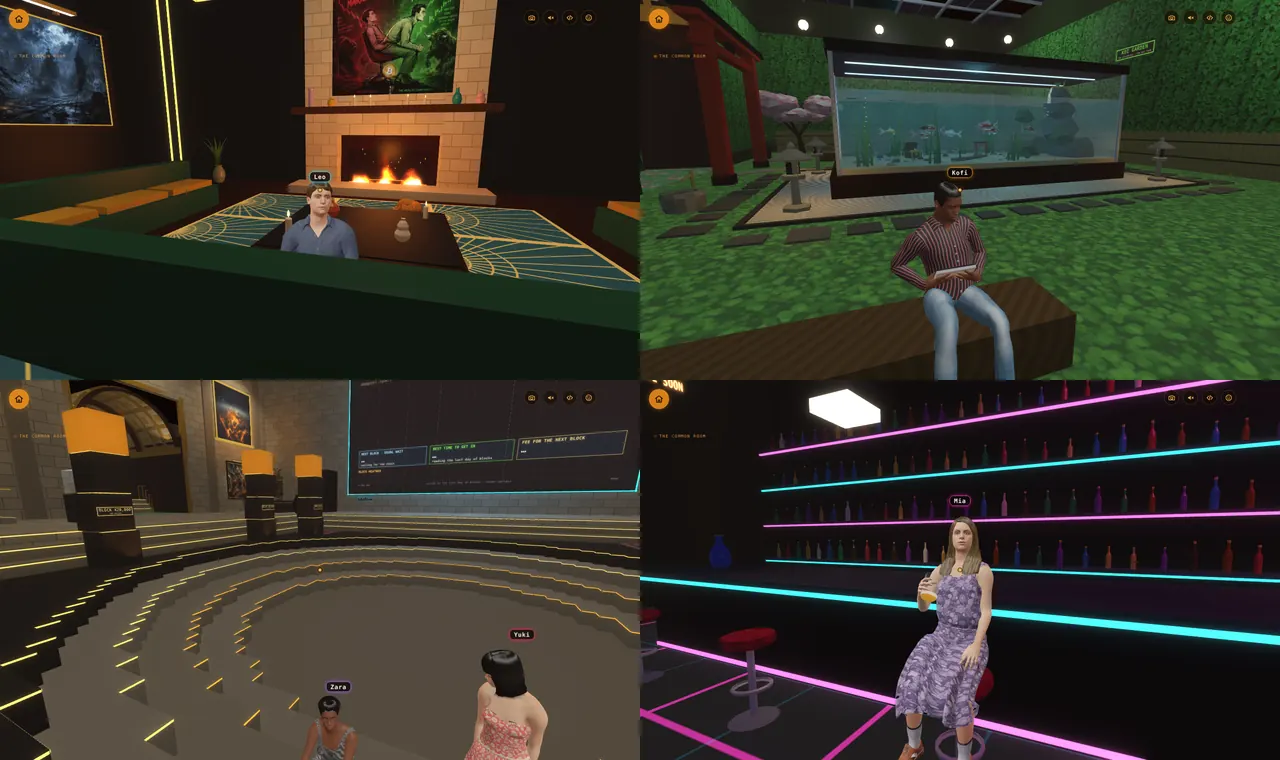
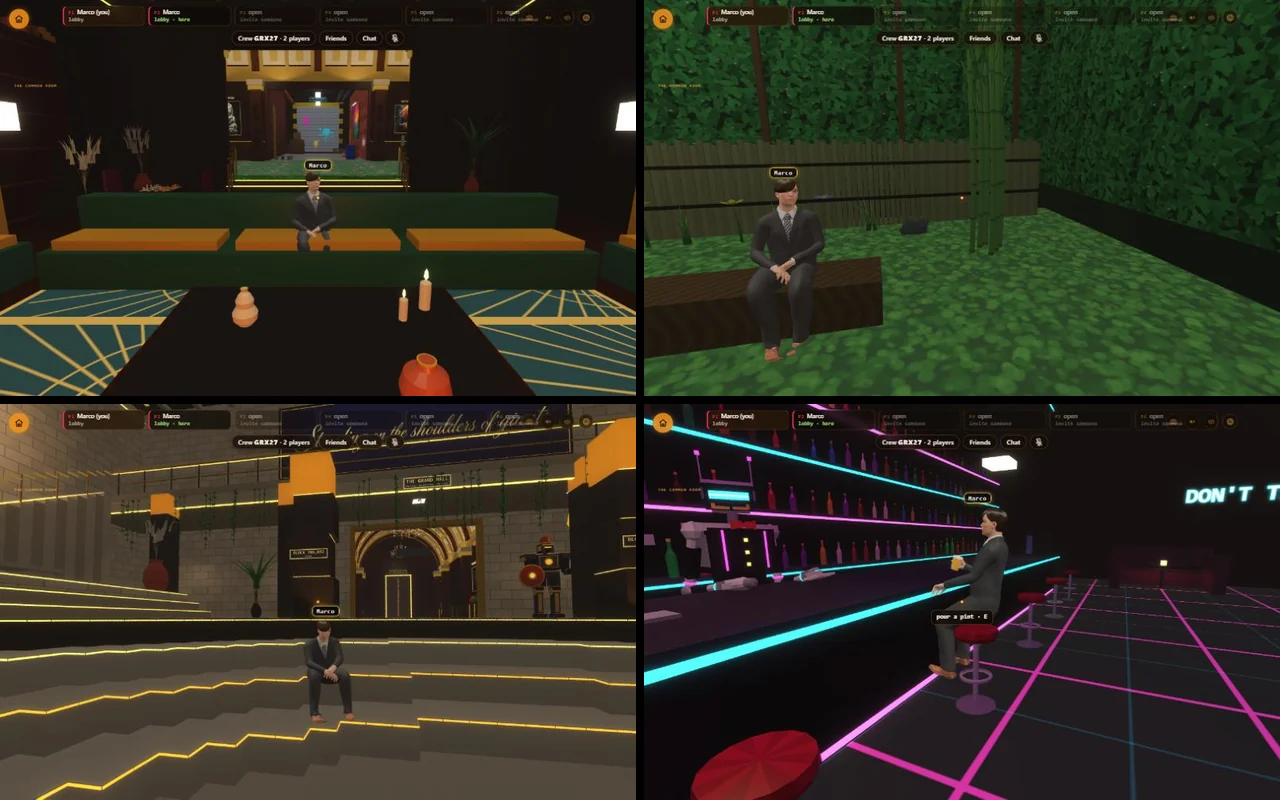
Blog: the Bitcoin side of Block Cube and Block Paint, as a how-to
The blog now covers the Bitcoin side of Block Cube and Block Paint as a how-to: the next block, fees and ordinals views, walking into a block and holding parcels, the tablet search, the common room's live screens, and Block Paint's block screens. Every new picture was taken on the live portal with real blocks. The seats and Your painter pictures, which showed test block numbers, are replaced with pictures from the live portal.

Claude-Session: https://claude.ai/code/session_01JZqZ4BYJwBARhXufSmBGTD

diff --git a/block-cube-people-blog.html b/block-cube-people-blog.html
@@ -3,7 +3,7 @@
 <head>
 <meta charset="utf-8">
 <meta name="viewport" content="width=device-width, initial-scale=1">
-<title>Real People in Block Cube and Block Paint</title>
+<title>Block Cube and Block Paint: the Bitcoin side and the real people</title>
 <meta name="description" content="Ten lifelike people, 350 things to wear, 30 emotes and a way of moving that never plays the same twice: what the people update for Block Cube and Block Paint does, how it works, and how to use it.">
 <style>
   :root { --bg: #0d0906; --ink: #efe6d6; --mute: #b3a48d; --line: #3a2a1c; --gold: #f7931a; --card: #17100a; --bar: #080503; }
@@ -63,14 +63,14 @@
 <div class="topbar"><div><a href="index.html">Back to the Ordinal Portal</a><a href="block-cube-together.html">Play Block Cube</a><a href="block-paint.html">Open Block Paint</a></div></div>
 <main>
   <div class="kick">Ordinal Portal · build notes</div>
-  <h1>Real People in Block Cube and Block Paint</h1>
+  <h1>Block Cube and Block Paint: the Bitcoin side and the real people</h1>
   <p class="lede">Ten lifelike people, 350 things to wear, 30 emotes, and a way of standing, looking and moving that never plays the same twice. This is what the update does, how it works, and how to use it.</p>
-  <nav class="toc"><a href="#what">What it is</a><a href="#start">Getting started</a><a href="#ten">The ten</a><a href="#wardrobe">Wardrobe</a><a href="#emotes">Emotes</a><a href="#alive">How they move</a><a href="#places">Where you meet them</a><a href="#controls">Controls</a><a href="#how">How it works</a><a href="#resources">Resources</a><a href="#next">Limits</a><a href="#log">Update log</a></nav>
+  <nav class="toc"><a href="#what">What it is</a><a href="#start">Getting started</a><a href="#bitcoin">Bitcoin side</a><a href="#ten">The ten</a><a href="#wardrobe">Wardrobe</a><a href="#emotes">Emotes</a><a href="#alive">How they move</a><a href="#places">Where you meet them</a><a href="#controls">Controls</a><a href="#how">How it works</a><a href="#resources">Resources</a><a href="#next">Limits</a><a href="#log">Update log</a></nav>
 
   <figure><img src="block-cube-people-blog/lineup.webp" alt="Ten people standing in a row, each in a different outfit from the wardrobe" width="1400" height="472"><figcaption>The ten, each in an outfit picked from the wardrobe: a top, something below, shoes, a hat and gloves.</figcaption></figure>
 
   <h2 id="what">What it is</h2>
-  <p>Block Cube is a 3D Bitcoin block explorer you walk through, with a common room where a crew can meet. Block Paint is its spray-paint city. Until now everyone in both was a blocky figure. This update replaces them with real-looking people: the same ten in both games, wearing the same clothes, doing the same moves.</p>
+  <p>Block Cube is a 3D Bitcoin block explorer you walk through, with a common room where a crew can meet. Block Paint is its spray-paint city. Both follow the Bitcoin blockchain live, and the part called <a href="#bitcoin">The Bitcoin side</a> shows how to use that, step by step. Until now everyone in both was a blocky figure. This update replaces them with real-looking people: the same ten in both games, wearing the same clothes, doing the same moves.</p>
   <ul>
     <li><strong>Ten people</strong>, five men and five women, with five skin tones to choose from.</li>
     <li><strong>A wardrobe of 350 pieces</strong> in seven sections, each with colours and patterns.</li>
@@ -96,6 +96,87 @@
     <li>Pick one of the ten, colours, a skin tone and your wardrobe. Press <kbd>V</kbd> (or pinch on a phone) to see yourself.</li>
   </ol>
   <p>Your choice is remembered on your device. Other players see it.</p>
+
+  <h2 id="bitcoin">The Bitcoin side: how to use it</h2>
+  <p>Block Cube is a Bitcoin block explorer you can walk through. What you see comes from the Bitcoin blockchain, live: blocks, fees and the next block from mempool.space, ordinal tags from ordpool.space, and inscriptions from ordinals.com. Every picture in this part was taken on the live portal on 12 November 2026, with real blocks.</p>
+
+  <h3>1. The newest block, and the one being made</h3>
+  <p>Open Block Cube and you start on the <strong>next block</strong>: the block being put together right now from transactions waiting to be mined.</p>
+  <ul>
+    <li><strong>The tiles along the top</strong> are the chain. On the left are the blocks still waiting (+3, +2, +1 and NEXT). On the right are blocks already mined, newest first. Each tile shows its fees, size and number of transactions. Click a tile to open that block.</li>
+    <li><strong>LIVE</strong> (at the bottom) takes you back to the next block. <kbd>&lsaquo;</kbd> and <kbd>&rsaquo;</kbd> beside it step one block back or forward.</li>
+    <li><strong>Fee weather</strong> is the band under the tiles: the middle fee of each of the last 144 blocks (about a day). 1D, 1W, 1M and 3M change how far back it goes.</li>
+    <li><strong>FEED</strong> (top right) shows or hides the live feed: blocks as they are found and who found them, big moves, and transactions joining the next block.</li>
+  </ul>
+  <figure><img src="block-cube-people-blog/chain-next.webp" alt="Block Cube opening on the next block, 975,527, with the row of block tiles along the top, the fee weather band, the parcel types and the live feed" width="800" height="449" loading="lazy"><figcaption>Where you start: the next block (975,527) being put together, the chain along the top, the live feed on the right.</figcaption></figure>
+
+  <h3>2. Read a block: fees or ordinals</h3>
+  <p>Every little box in the cube is one transaction.</p>
+  <ul>
+    <li>The button at the bottom names the view you are in. <strong>FEES</strong> colours each box by the fee it paid; the colour key is under the block number. Click it to switch to <strong>ORDINALS</strong>, which shows what the block carries: inscriptions, BRC-20 and other tokens, runes and more.</li>
+    <li>The <strong>eye</strong> button is X-ray: it lets you see inside the cube.</li>
+    <li><strong>Parcel types</strong> (bottom left): hover over a type to light it up, click it to keep it lit. The tabs switch between inscriptions, tokens and transactions.</li>
+    <li><strong>Click a box</strong> to open its card: its place in the block, fee rate, fee, size, the total it sends, any ordinals and its ID. With a type kept, <kbd>&lsaquo;</kbd> and <kbd>&rsaquo;</kbd> on the card step through every parcel of that type.</li>
+  </ul>
+  <figure><img src="block-cube-people-blog/chain-fees.webp" alt="Block 975,526 in the fees view, each box coloured by its fee, with the colour key under the block number" width="800" height="449" loading="lazy"><figcaption>Block 975,526 in the FEES view.</figcaption></figure>
+  <figure><img src="block-cube-people-blog/chain-ordinals.webp" alt="The same block in the ordinals view with Inscriptions kept, and the card for inscription 1 of 14, a BRC-20 transfer" width="800" height="449" loading="lazy"><figcaption>The same block in the ORDINALS view, with Inscriptions kept: the card shows the first of its 14 inscriptions, a BRC-20 transfer.</figcaption></figure>
+
+  <h3>3. Walk into the block</h3>
+  <p>Press the round button at the top left (<em>walk into the block</em>). Inside, the block is a hall of shelves. Each transaction is a parcel on a shelf, sorted by kind, with a sign giving the count. Pictures show on their parcels and tokens show their names. The door at the far end leads to the next block.</p>
+  <ul>
+    <li><strong>Computer:</strong> click to look around, <kbd>W</kbd> <kbd>A</kbd> <kbd>S</kbd> <kbd>D</kbd> to walk, <kbd>Shift</kbd> to run, click a parcel to hold it, <kbd>Esc</kbd> to let go.</li>
+    <li><strong>Phone:</strong> pad to walk, drag to look, tap a parcel to hold it.</li>
+  </ul>
+  <figure><img src="block-cube-people-blog/chain-inside.webp" alt="Inside block 975,526: a long hall of lit shelves full of parcels, with the door to the next block at the far end" width="800" height="500" loading="lazy"><figcaption>Inside block 975,526.</figcaption></figure>
+  <figure><img src="block-cube-people-blog/chain-shelves.webp" alt="Token shelves inside the block: BRC-20 with 12 parcels named rats, sats, ordi and others, CRC-20 LEAF with 3, Counterparty with 4, Alkanes with 4" width="800" height="500" loading="lazy"><figcaption>Token shelves: BRC-20 (12), CRC-20 · LEAF (3), Counterparty (4), Alkanes (4).</figcaption></figure>
+  <p>When you hold a parcel, its card shows what is inside it: the picture, the text, or a token's details, with the transaction under it. Then you can:</p>
+  <ul>
+    <li><strong>VIEW BIG</strong> (<kbd>V</kbd>): see it large on a big tablet, with FULL SCREEN and OPEN buttons. CLOSE goes back.</li>
+    <li><strong>SHOW IN COMMON ROOM</strong> (<kbd>C</kbd>): put it on show in the common room (see part 5).</li>
+    <li><strong>FOLLOW IT BACK</strong> (<kbd>F</kbd>): a gold line leads from the parcel to where the inscription was made and each place it has moved. The bar at the top names each step (MADE, a move, or PAID TO A MINER); <kbd>&#9664;</kbd> and <kbd>&#9654;</kbd> step along it and &times; ends it.</li>
+  </ul>
+  <figure><img src="block-cube-people-blog/chain-hold.webp" alt="Holding inscription 1,000: the card shows its picture, a striped ring on a pink and purple background, with View big, Show in common room and Follow it back buttons" width="800" height="500" loading="lazy"><figcaption>Holding inscription #1,000, a picture, in block 774,697.</figcaption></figure>
+  <figure><img src="block-cube-people-blog/chain-follow.webp" alt="Follow it back on a BRC-20 parcel: a gold line comes down to the parcel marked made here, and the bar at the top reads number 127,871,016, made, block 975,526" width="800" height="500" loading="lazy"><figcaption>Follow it back: inscription #127,871,016 was made in this block, so the line ends here.</figcaption></figure>
+
+  <h3>4. Search and fast travel: the tablet</h3>
+  <p>Inside, press <kbd>T</kbd> (on a phone, tap the tablet button) to open the tablet.</p>
+  <ul>
+    <li><strong>Fast travel:</strong> COMMON ROOM, NEWEST BLOCK or GENESIS BLOCK.</li>
+    <li><strong>Search:</strong> type, press FIND, then GO. Its help line lists what it can find: a block (840000 or 840000.bitmap), a parcel (12.840000.bitmap), an inscription (#1000 or its ID), a transaction ID, an address, or a name (satoshi.sats).</li>
+    <li>After GO, an arrow shows the way, with the distance. CLEAR ARROW takes it away.</li>
+  </ul>
+  <figure><img src="block-cube-people-blog/chain-tablet.webp" alt="The tablet open inside a block, with Common room, Newest block and Genesis block buttons, the search box reading #1000, and the result inscription 1,000 with a Go button" width="800" height="500" loading="lazy"><figcaption>Searching for inscription #1000.</figcaption></figure>
+  <figure><img src="block-cube-people-blog/chain-arrow.webp" alt="The Images shelf in block 774,697 with six picture parcels, and an orange arrow labelled number 1,000, 1.8 metres, pointing at one of them" width="800" height="500" loading="lazy"><figcaption>GO took me to block 774,697. The arrow points to #1,000 on the Images shelf, 1.8 m away.</figcaption></figure>
+
+  <h3>5. The common room's live screens</h3>
+  <p><strong>The big screen in the Forum</strong> (the sunken floor in the Grand Hall) shows the chain as it happens. Walk up and click it, or press <kbd>E</kbd>, to see it up close; FULL SCREEN fills your screen with it. It shows:</p>
+  <ul>
+    <li><strong>Waiting to be mined:</strong> the next three blocks as they stand, with their fees.</li>
+    <li><strong>Just mined:</strong> the last four blocks, how long ago, and which pool found them.</li>
+    <li><strong>Next halving:</strong> the block it happens at and how many blocks to go.</li>
+    <li><strong>Next block · usual wait:</strong> the average time between blocks over the last day, and the time 9 in 10 blocks came within.</li>
+    <li><strong>Best time to get in:</strong> the lowest fee getting into the next block now, set against the last 144 blocks. NOW IS CHEAP, FAIR or DEAR says how it compares.</li>
+    <li><strong>Low fee · scored on today:</strong> fees to pay, each tested on the last day's blocks: <em>cheap</em> gets in within about 3 hours, <em>patient</em> within about 1 hour, and <em>next block</em> in the next one. The numbers say how often each would have worked.</li>
+    <li><strong>Block weather:</strong> the fee for the next block over the last day, and whether it is busier or quieter than usual now.</li>
+  </ul>
+  <figure><img src="block-cube-people-blog/chain-screen.webp" alt="The Forum's big screen up close: Live from the blockchain, block 975,526, next halving at block 1,050,000 with 74,474 blocks to go, the next three blocks, the last four blocks, usual wait about 11.1 minutes, best time to get in: now is dear, low fees scored on today, and the block weather chart" width="800" height="500" loading="lazy"><figcaption>The big screen up close.</figcaption></figure>
+  <p><strong>On show:</strong> a parcel you put on show floats large over the middle of the Forum. One is on show at a time. In a crew everyone sees the same one, and it is kept on your device for next time. The button at the top takes you back to the block it came from.</p>
+  <figure><img src="block-cube-people-blog/chain-show.webp" alt="Inscription 1,000 on show as a large floating box over the Forum, under a ring of circling blocks, with the big screen below" width="800" height="500" loading="lazy"><figcaption>Inscription #1,000 on show in the Forum.</figcaption></figure>
+  <p><strong>The rare sats board</strong> in the Entrance Arcade lists kinds of rare sats, how many of each exist, and a price for one sat. The prices come from ordiscan.com, with the day they were read at the bottom. It moves on to the next kinds every few seconds.</p>
+  <figure><img src="block-cube-people-blog/chain-rare.webp" alt="The rare sats board in the Entrance Arcade: block 975,526, with black uncommon, black rare, black epic, palindrome, alpha and omega sats, how many exist and the price for one sat" width="800" height="500" loading="lazy"><figcaption>The rare sats board.</figcaption></figure>
+
+  <h3>6. Block Paint's Bitcoin side</h3>
+  <p>Block Paint City follows the chain too. On the portal it reads the newest block from mempool.space, with backup sites if that is down.</p>
+  <ul>
+    <li><strong>Block screens</strong> on the rooftop and in the subway show BITCOIN BLOCK, the newest block's number, and a GMT clock that runs on from that block's time stamp.</li>
+    <li><strong>The subway departures board</strong> lists the Downtown &amp; Sats Bay train, the Block train ("with the next block") and the last block.</li>
+    <li><strong>When a new block is found</strong> the place you are in reacts: in the subway the next train in is an orange block train, in the train yard an orange train runs through, and on the rooftop fireworks go up.</li>
+    <li><strong>The skate park scoreboard</strong> counts down the blocks to the next halving.</li>
+    <li><strong>Paint apps:</strong> the Paint menu has "Look for paint apps". On the portal it says paint apps are found once the game is inscribed. Until then, "Try a paint app file…" loads one from your device.</li>
+  </ul>
+  <figure><img src="block-cube-people-blog/paint-board.webp" alt="The big screen on the Block Paint rooftop at night: Bitcoin block 975,526, with a GMT time under it and a glowing Bitcoin sign above" width="800" height="500" loading="lazy"><figcaption>The rooftop's block screen.</figcaption></figure>
+  <figure><img src="block-cube-people-blog/paint-depart.webp" alt="The subway platform with the departures board: Downtown and Sats Bay, Block train with the next block, Last block 975,526, and a block screen on the far wall" width="800" height="500" loading="lazy"><figcaption>The subway departures board, and a block screen across the tracks.</figcaption></figure>
+  <figure><img src="block-cube-people-blog/paint-halving.webp" alt="The skate park scoreboard: Next halving, 74,474 blocks to go, block 975,526" width="800" height="500" loading="lazy"><figcaption>The skate park's halving countdown.</figcaption></figure>
 
   <h2 id="ten">The ten</h2>
   <p>Each person has a name, a body, and a way of carrying themselves. The ways are small, but they are why a room of them does not look like copies of one figure.</p>
@@ -141,7 +222,7 @@
   <details class="sec"><summary>Shoes <span>all fifty</span></summary><figure><a href="block-cube-people-blog/all-shoes.webp"><img src="block-cube-people-blog/all-shoes.webp" alt="Fifty pairs of shoes seen close up, ten to a row" width="720" height="360" loading="lazy"></a><figcaption>All fifty shoes, close up.</figcaption></figure></details>
   <details class="sec"><summary>Hats <span>all fifty</span></summary><figure><a href="block-cube-people-blog/all-hats.webp"><img src="block-cube-people-blog/all-hats.webp" alt="Fifty hats seen close up on the same head, ten to a row" width="720" height="360" loading="lazy"></a><figcaption>All fifty hats.</figcaption></figure></details>
   <details class="sec"><summary>Gloves <span>all fifty</span></summary><figure><a href="block-cube-people-blog/all-gloves.webp"><img src="block-cube-people-blog/all-gloves.webp" alt="Fifty gloves seen close up on the same hand, ten to a row" width="720" height="360" loading="lazy"></a><figcaption>All fifty gloves.</figcaption></figure></details>
-  <figure><img src="block-cube-people-blog/painter.webp" alt="Block Paint with the Your painter panel open, showing the ten names, colours, skin and the wardrobe" width="1100" height="720" loading="lazy"><figcaption>In Block Paint the same wardrobe is in the "Your painter" panel.</figcaption></figure>
+  <figure><img src="block-cube-people-blog/painter.webp" alt="Block Paint on the rooftop at night with the Your painter panel open, showing the ten names, colours, skin and the wardrobe" width="800" height="500" loading="lazy"><figcaption>In Block Paint the same wardrobe is in the "Your painter" panel.</figcaption></figure>
 
   <h2 id="emotes">Emotes and dances</h2>
   <p>There are thirty, in four groups, and every one is pictured below. In Block Cube, with a crew, press <kbd>Q</kbd> or the smiley button to open the emotes. <kbd>Tab</kbd> changes group and <kbd>1</kbd> to <kbd>9</kbd> picks one. Each has its own face to go with it. A dance keeps going until you walk off.</p>
@@ -191,7 +272,7 @@
   <h2 id="places">Where you meet them</h2>
   <h3>The common room in Block Cube</h3>
   <p>Your crew meets here. People sit properly on what is there: the sofa by the fire, a bench in the garden, the steps of the Forum, a stool at the bar. They hold things the way a hand does: a pint glass, a parcel shown as a tablet.</p>
-  <figure><img src="block-cube-people-blog/seats.webp" alt="Four pictures of people sitting in the common room: on a sofa, on a garden bench with a tablet, on the Forum steps, and on a bar stool with a pint" width="1280" height="760" loading="lazy"><figcaption>Seats in the common room: the sofa, a garden bench, the Forum steps, a bar stool.</figcaption></figure>
+  <figure><img src="block-cube-people-blog/seats.webp" alt="Four pictures of a crewmate sitting in the common room: on the sofa by the fire, on a garden bench, on the Forum steps, and on a bar stool with a pint" width="1280" height="800" loading="lazy"><figcaption>Seats in the common room: the sofa, a garden bench, the Forum steps, a bar stool. Taken in a real crew on the live portal.</figcaption></figure>
   <h3>Block Paint City</h3>
   <p>Six places: the rooftop, the skate park, the subway, the alley, the warehouse and the train yard. Three of them have townsfolk, who are the same ten in everyday outfits:</p>
   <ul>
@@ -236,6 +317,7 @@
     <li><strong>Bodies, skins, hair, eyes and the ready-made outfits:</strong> MakeHuman assets released as CC0 (free for any use).</li>
     <li><strong>Walking and standing:</strong> the Carnegie Mellon University motion capture database. The data used in this project was obtained from mocap.cs.cmu.edu. The database was created with funding from NSF EIA-0196217.</li>
     <li><strong>Wardrobe pieces, emotes, dances and the natural movement:</strong> made for this project.</li>
+    <li><strong>Bitcoin data:</strong> <a href="https://mempool.space">mempool.space</a> (blocks, fees, the next block), <a href="https://ordpool.space">ordpool.space</a> (ordinal tags), <a href="https://ordinals.com">ordinals.com</a> (inscriptions) and <a href="https://ordiscan.com/rare-sats">ordiscan.com</a> (rare sat prices).</li>
     <li><strong>Where it lives:</strong> the Ordinal Portal on GitHub Pages. The pages are <code>block-cube.html</code>, <code>block-cube-together.html</code> and <code>block-paint.html</code>, with the people's files in a <code>people</code> folder beside them.</li>
   </ul>
 
@@ -253,6 +335,7 @@
 
   <h2 id="log">Update log</h2>
   <ul class="log">
+    <li><b>12 November 2026</b>The blog now covers the Bitcoin side of Block Cube and Block Paint, as a how-to with pictures taken on the live portal. Two pictures that showed test block numbers (the seats and the Your painter panel) are replaced with pictures from the live portal.</li>
     <li><b>12 November 2026</b>The blog gains moving pictures, a picture of every emote and a picture of every wardrobe section. The play together page and Block Paint's help card now link here. Four sharp dance moves (in the Robot, the Woah, B-T-C and Mind blown) used to jump in a single frame; they now take about a tenth of a second. Elbows no longer pinch thin when an arm is raised high or a thumb is turned down: the turn is shared between shoulder, forearm and wrist, as in a real arm.</li>
     <li><b>12 November 2026</b>This blog goes up, with a Blog button on the portal's Block Cube card.</li>
     <li><b>11 to 12 November 2026</b>Natural movement: shifting weight, breathing, each person's own blink, noticing each other and you, nodding along, talking with the hands, skirts that hang and sit.</li>
